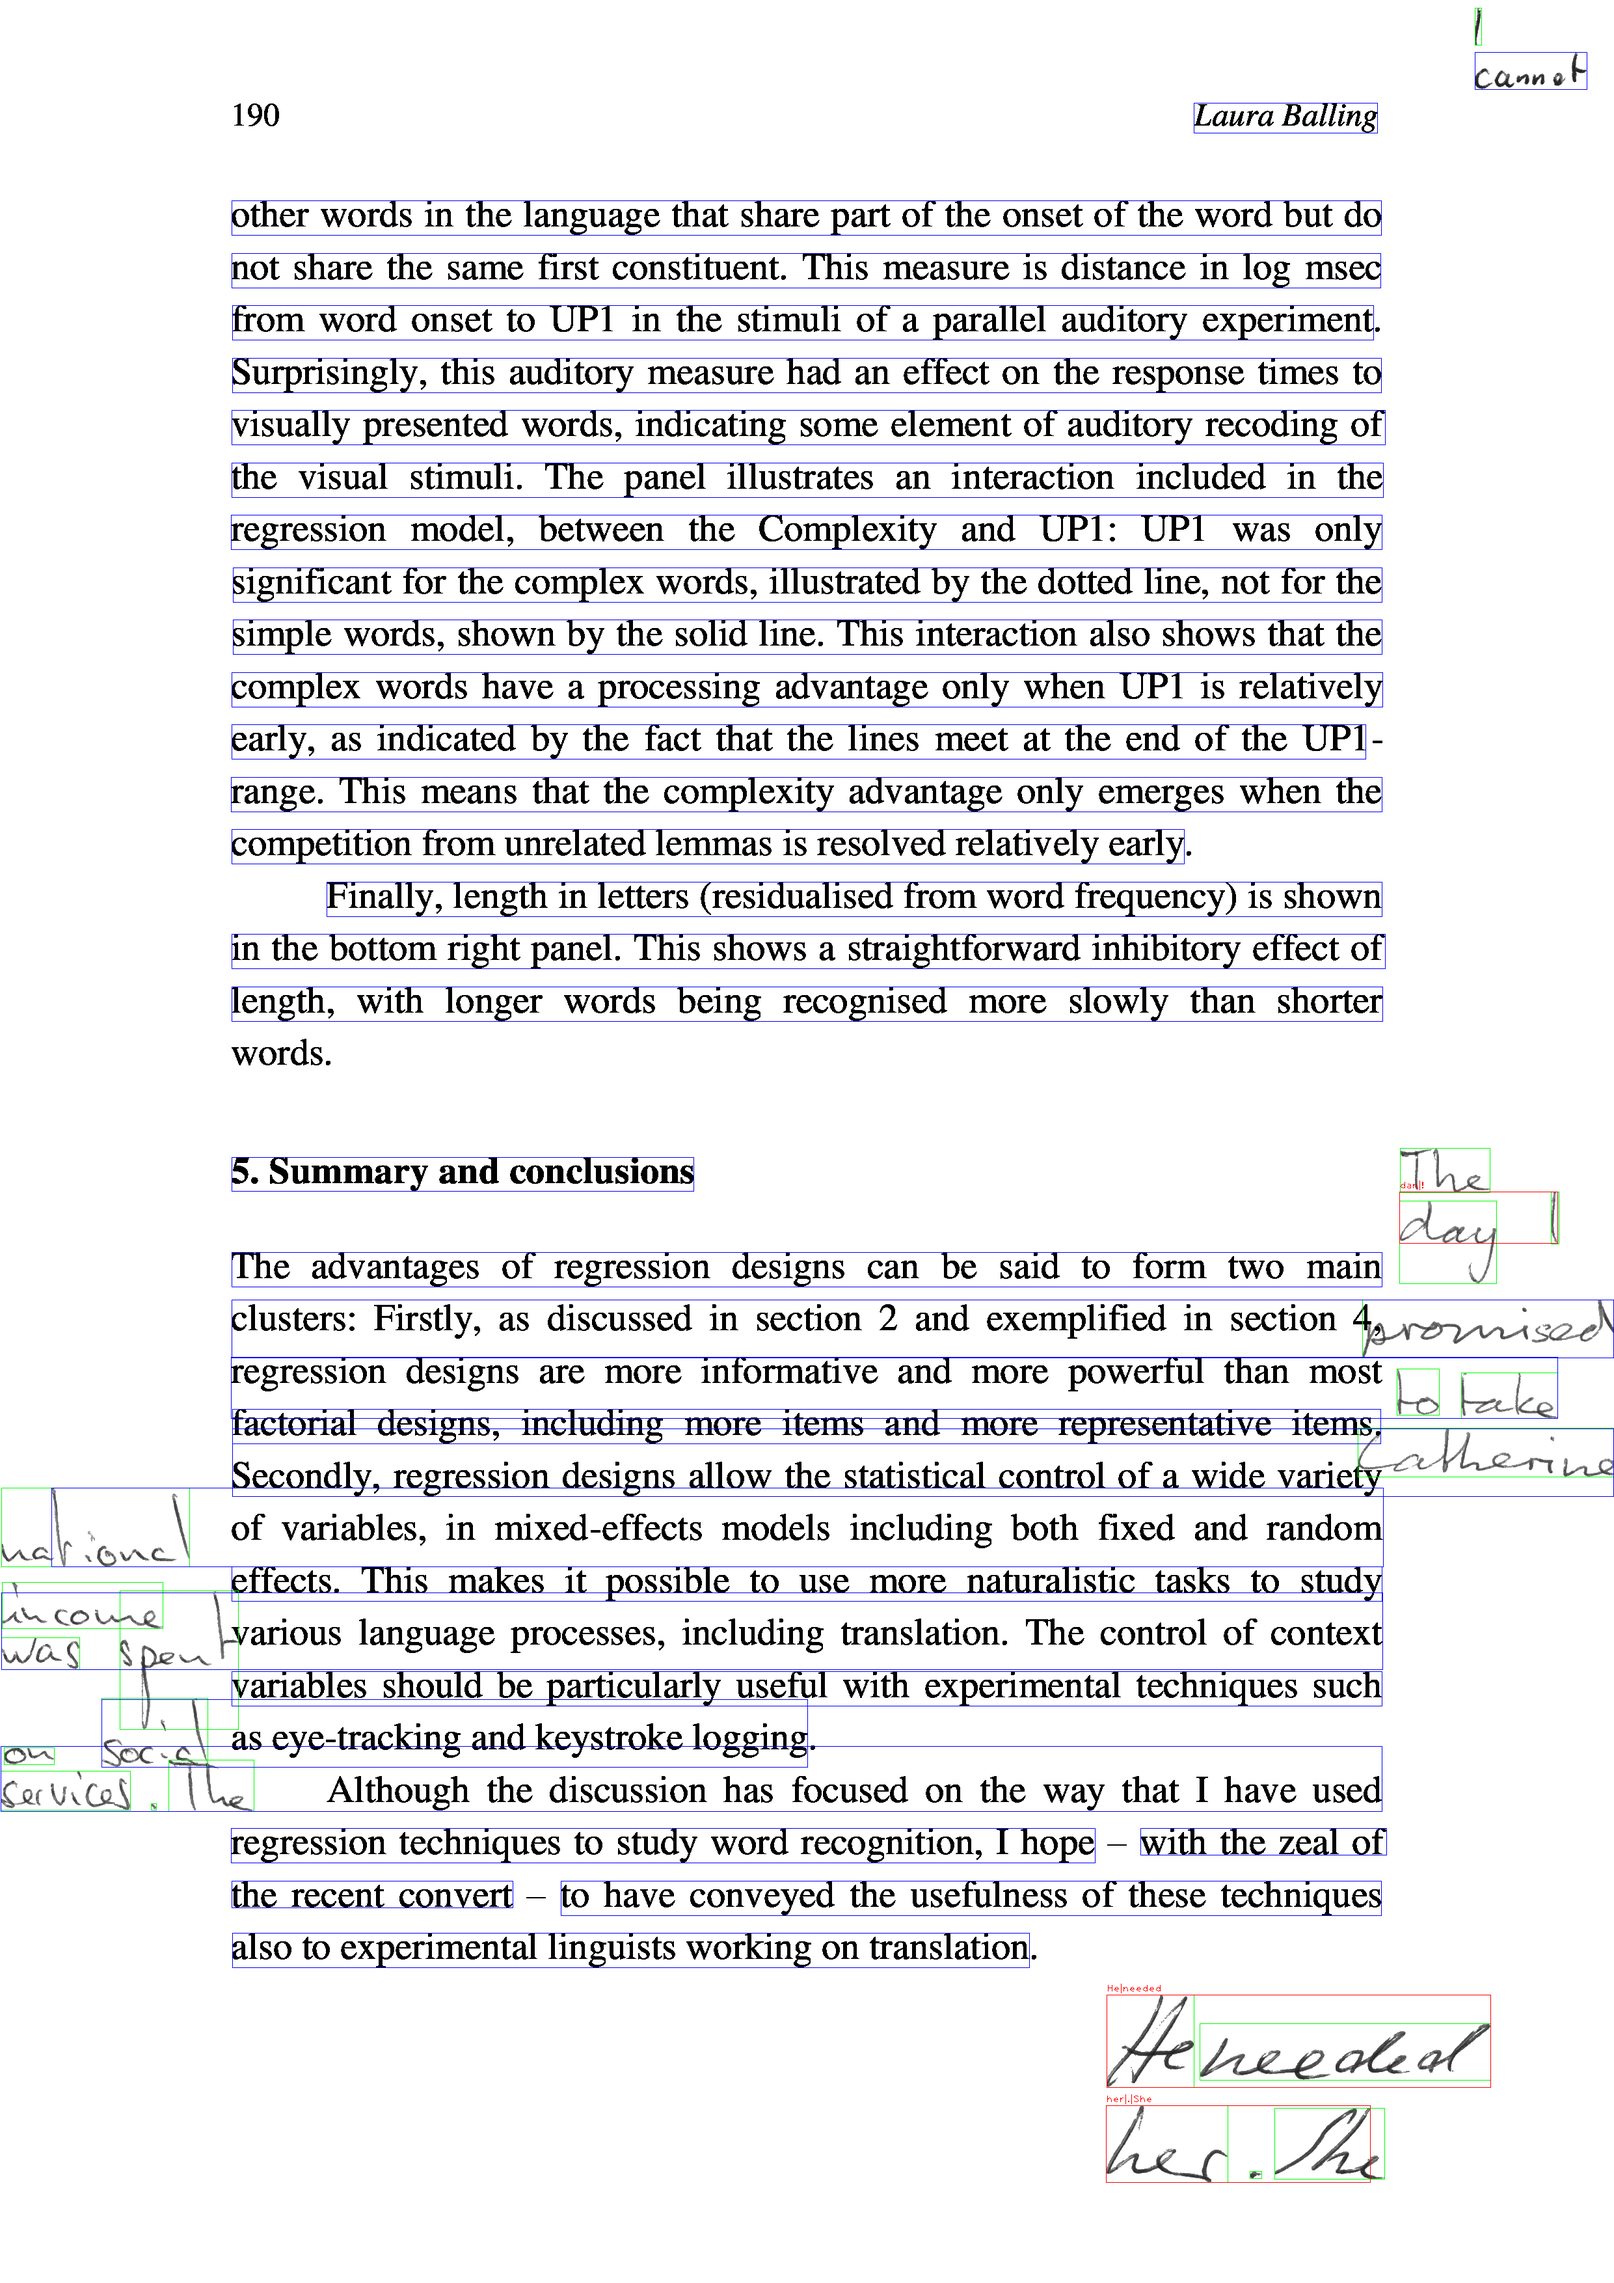
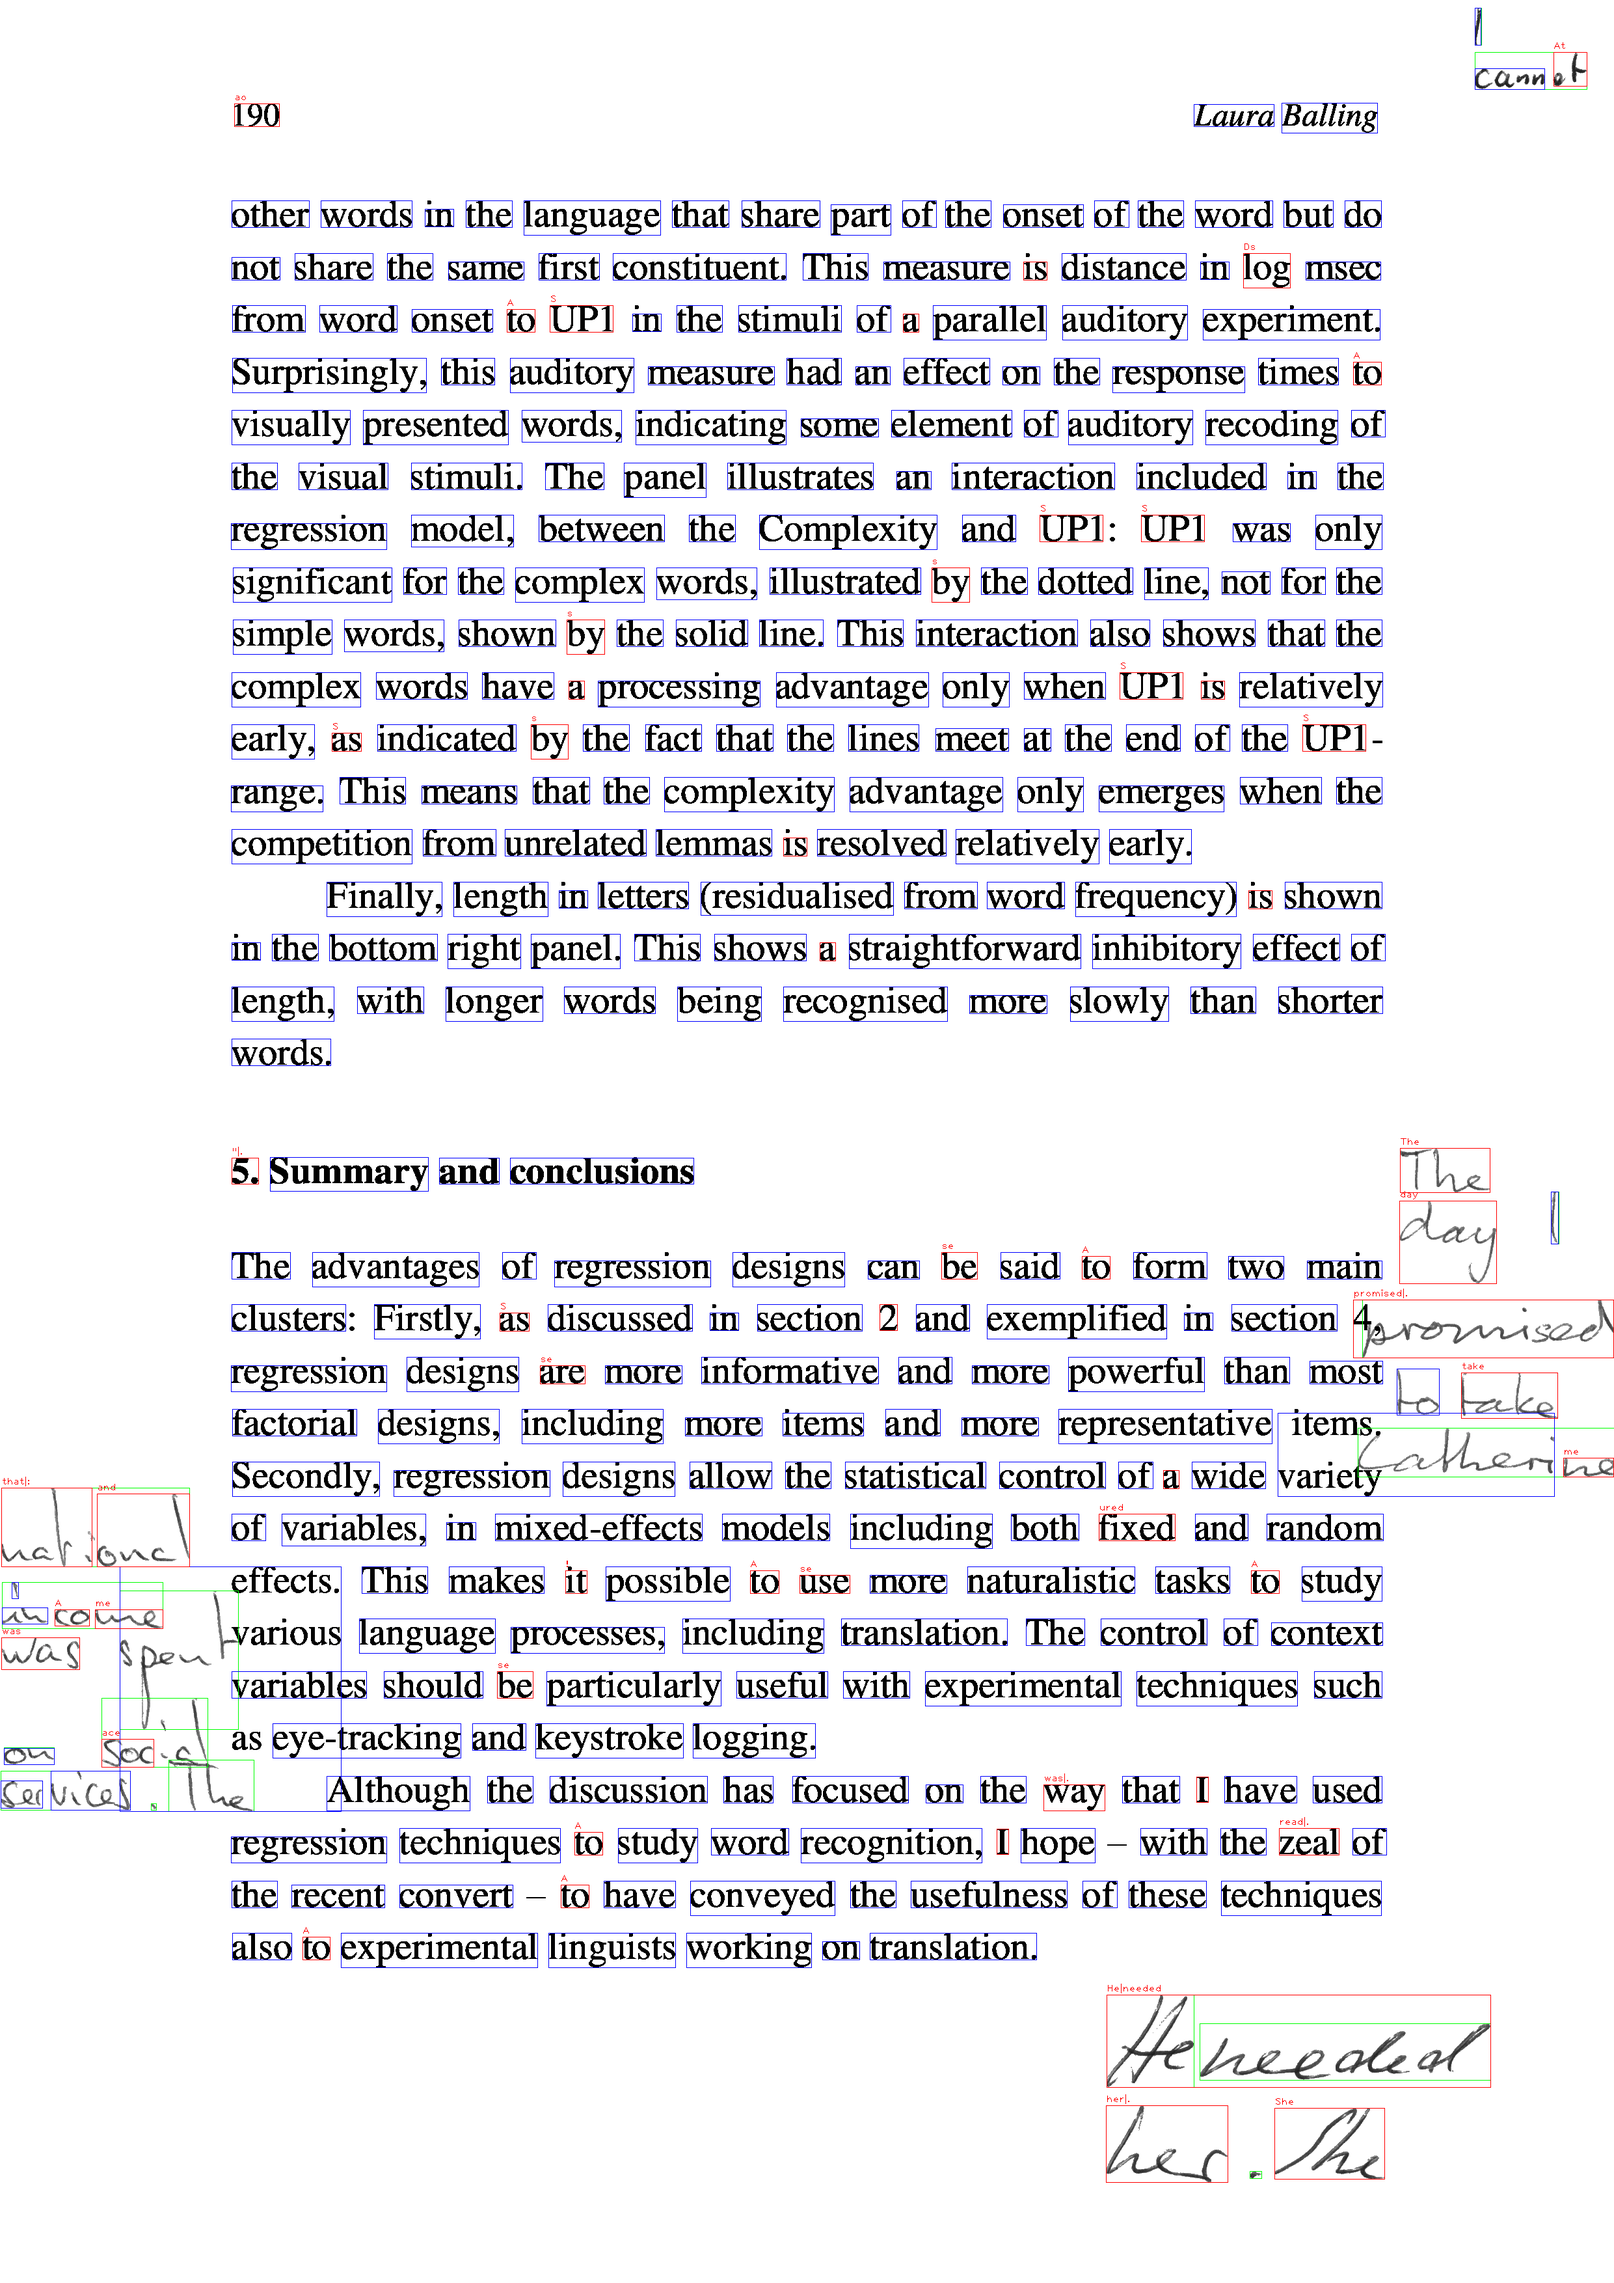
word extractor

diff --git a/segmentation/WordRegionExtractor.py b/segmentation/WordRegionExtractor.py
@@ -1,0 +1,154 @@
+import cv2
+import numpy as np
+from sklearn.cluster import DBSCAN
+from .metrics import x_by_height, y_by_height
+
+ORIENTATION_LANDSCAPE = 0
+ORIENTATION_PORTRAIT = 1
+
+##################
+# REGION DETECTION ALGORITHM
+#   1. Thresholding
+#
+
+
+class Region(object):
+    def __init__(self, pos, size, img):
+        self.img = img
+        self.pos = pos
+        self.size = size
+
+
+class RegionExtractor(object):
+
+    def __init__(self, img):
+        self.original = img
+        self._mser_max_area = int(img.shape[0]*img.shape[1]/2)
+        self._mser_min_area = 0
+        self._threshold_kernel = 51
+        self._cluster_y_eps = 0.1
+        self._cluster_x_eps = 0.3
+        self._min_region_area = img.shape[0]*img.shape[1]/(200*200)
+        self._min_wh_ratio = 0.0
+
+        if np.max(self.original.shape[:2]) < 800 or np.max(self.original.shape[0:2]) < 533:
+            print("Please provide the image in a higher resolution")
+            exit()
+
+    def _threshold(self, img):
+        mean = np.mean(img, axis=(0, 1))
+        return cv2.adaptiveThreshold(img, 255, cv2.ADAPTIVE_THRESH_GAUSSIAN_C,
+                                     cv2.THRESH_BINARY_INV, self._threshold_kernel, mean/4)
+
+    def _mser(self, img, max_area=14400, min_area=0):
+        mser = cv2.MSER_create(_max_area=self._mser_max_area,
+                               _min_area=self._mser_min_area)
+        regions, _ = mser.detectRegions(img)
+        hulls = [cv2.convexHull(p.reshape(-1, 1, 2)) for p in regions]
+        return hulls
+
+    def _duplicate(self, rects):
+        res = []
+        for rect in rects:
+            res.extend([rect]*2)
+        return res
+
+    def _hull2rect(self, hull):
+        return cv2.boundingRect(hull)
+
+    def _cluster(self, rects, eps, metric):
+        db = DBSCAN(eps=eps, min_samples=1,
+                    metric=metric).fit(rects)
+        labels = db.labels_
+        cluster = []
+        cluster_dict = {}
+        for idx, rect in enumerate(rects):
+            if labels[idx] > -1:
+                if labels[idx] not in cluster_dict:
+                    cluster_dict[labels[idx]] = []
+                cluster_dict[labels[idx]].append(rect)
+            else:
+                cluster.append([rect])
+        cluster.extend(cluster_dict.values())
+        return cluster
+
+    def _extract_region(self, region):
+        x1, y1, x2, y2 = region
+        return Region(
+            (x1, y1), (x2-x1, y2-y1), self.original[y1:y2, x1:x2])
+
+    def _combined_metric(self, rectA, rectB):
+        if y_by_height(rectA, rectB) < self._cluster_y_eps and x_by_height(rectA, rectB) < self._cluster_x_eps:
+            return 0
+        return 1
+
+    def extract(self):
+        #########################
+        #   1. THRESHOLDING
+        ########################
+        img = cv2.cvtColor(self.original, cv2.COLOR_BGR2GRAY)
+        img = self._threshold(img)
+
+        #########################
+        #   2. MSER
+        ########################
+        hulls = self._mser(img)
+        rects = list([self._hull2rect(hull) for hull in hulls])
+
+        #########################
+        #   3. Rectangle Grouping
+        ########################
+
+        rects = self._duplicate(rects)
+        rects = cv2.groupRectangles(rects, 1, 0)
+        rects = [[x, y, x+w, y+h] for x, y, w, h in rects[0]]
+        #########################
+        #   4. Y-AXIS Clustering
+        ########################
+        # rect_groups = self._cluster(
+        #     rects, self._cluster_x_eps, x_by_height)
+        rect_groups = self._cluster(
+            rects, 0.5, self._combined_metric)
+        #########################
+        #   5. X-AXIS Clustering
+        ########################
+        # rect_super_groups = [self._cluster(
+        #     rect_group, self._cluster_y_eps, y_by_height) for rect_group in rect_groups]
+        rect_super_groups = [rect_groups]
+
+        #########################
+        #   6. Grouping clusters
+        ########################
+        regions = []
+        for groups in rect_super_groups:
+            for subgroup in groups:
+                subgroup = np.array(subgroup)
+                v = [0, 0, 0, 0]
+                v[0] = int(np.min(subgroup[:, 0]))
+                v[2] = int(np.max(subgroup[:, 2]))
+                v[1] = int(np.min(subgroup[:, 1]))
+                v[3] = int(np.max(subgroup[:, 3]))
+                if (v[2]-v[0])*(v[3]-v[1]) > self._min_region_area and (v[2]-v[0])/(v[3]-v[1]) > self._min_wh_ratio:
+                    regions.append(v)
+
+        #########################
+        #   7. Get Region Image
+        ########################
+        return [self._extract_region(region) for region in regions]
+
+
+if __name__ == "__main__":
+    IMAGE = "./segmentation/images/00007-paper.png"
+    # IMAGE = "./segmentation/images/00001-paper.png"
+    img = cv2.imread(IMAGE)
+    re = RegionExtractor(img)
+    regions = re.extract()
+    for region in regions:
+        # cv2.imshow('final_region', region.img)
+        # cv2.waitKey(0)
+        x, y = region.pos
+        w, h = region.size
+        cv2.rectangle(img, (x, y), (x + w, y + h), (0, 0, 255), 1)
+    cv2.imwrite('./segmentation/output.png', img)
+    # cv2.imshow('All', img)
+    # cv2.waitKey(5000)

diff --git a/eval/evaluate.py b/eval/evaluate.py
@@ -1,8 +1,17 @@
 from .iou import fullpageiou
 import pylev
+import re
 
 IOU_THRESHOLD: float = 0.5
 LEVENSHTEIN_THRESHOLD: float = 0.25
+PUNCTUATION_REGEX = re.compile(r"([|])(?=[,.;:!?])")
+REGULAR_REGEX = re.compile(r"[|]")
+
+
+def clean_text(text):
+    text = PUNCTUATION_REGEX.sub('', text)
+    text = REGULAR_REGEX.sub(' ', text)
+    return text
 
 
 def levenshtein(gt, pred):
@@ -10,16 +19,25 @@ def levenshtein(gt, pred):
     return pylev.levenshtein(gt, pred)/ln
 
 
-def evaluate(groundtruth, predictions, iou_threshold=IOU_THRESHOLD, levenshtein_threshold=LEVENSHTEIN_THRESHOLD):
+def score_threshed(dist, threshold):
+    return 0 if dist > threshold else 1.0 * (1-(dist*2))
+
+
+def score_squared_error(dist, threshold):
+    return 1.0 - (dist if dist < 1.0 else 1.0)
+
+
+def evaluate(groundtruth, predictions, iou_threshold=IOU_THRESHOLD, levenshtein_threshold=LEVENSHTEIN_THRESHOLD, score_fn=score_squared_error):
     pairs, misfire = fullpageiou(groundtruth, predictions, iou_threshold)
-    total_pairs = len(pairs) + misfire
+    total_pairs = len(list(filter(lambda x: x["pred"] is not None or len(
+        x["gt"]["text"]) > 1, pairs))) + misfire
     correct_pairs = 0.0
     for pair in pairs:
         if pair["pred"] is not None:
-            dist = levenshtein(pair["gt"]["text"], pair["pred"]["text"])
+            dist = levenshtein(clean_text(pair["gt"]["text"]).lower(),
+                               clean_text(pair["pred"]["text"]).lower())
             pair["dist"] = dist
-            if dist < levenshtein_threshold:
-                correct_pairs += 1.0 * (1-(dist*2))
+            correct_pairs += score_fn(dist, levenshtein_threshold)
     return pairs, correct_pairs/total_pairs
 
 

diff --git a/data/RegionDataset.py b/data/RegionDataset.py
@@ -39,17 +39,19 @@ class RegionDataset(Dataset):
         self.vocab_length = len(self.vocab[0])
 
     def _load_sets(self):
-        self.data = [self._preprocess(region) for region in self.regions]
+        self.data = list(filter(lambda x: x is not None, [
+                         self._preprocess(region) for region in self.regions]))
 
     def _scale(self, img, factor):
         height = int(img.shape[0] / factor)
         width = int(img.shape[1] / factor)
+        if width <= 0 or height <= 0:
+            return np.zeros((self._max_height, self._max_width))
         return cv2.resize(img, (width, height))
 
     def _scale_img(self, img):
         if img.shape[0] == 0 or img.shape[1] == 0:
-            print(im.shape)
-            return img
+            return np.zeros((self._max_height, self._max_width))
         factor = max(img.shape[0] / self._max_height,
                      img.shape[1] / self._max_width,
                      self._scaling)
@@ -62,6 +64,8 @@ class RegionDataset(Dataset):
         img = threshold._threshold(img, True)
         img = crop._crop(img)
         img = self._scale_img(img)
+        if img is None:
+            return None
         img = padding._pad_cv2(img, 5, 0)
 
         img = pad(img, (self.meta["height"], self.meta["width"]))

diff --git a/segmentation/metrics.py b/segmentation/metrics.py
@@ -1,0 +1,30 @@
+def trunc(a, threshold=0):
+    return threshold if a < threshold else a
+
+
+def distance(rectA, rectB, p1, p2):
+    a1 = rectA[p1]
+    a2 = rectA[p2]
+    b1 = rectB[p1]
+    b2 = rectB[p2]
+    scale_a = a2 - a1
+    scale_b = b2 - b1
+    combined = max(a2, b2) - min(a1, b1)
+    return trunc(combined-scale_a-scale_b)
+
+
+def divide_by_height(dist, rectA, rectB):
+    _, ay1, _, ay2 = rectA
+    _, by1, _, by2 = rectB
+    avg_height = ((ay2 - ay1) + (by2 - by1)) / 2.0
+    return dist / avg_height
+
+
+def x_by_height(rectA, rectB):
+    dist = distance(rectA, rectB, 0, 2)
+    return divide_by_height(dist, rectA, rectB)
+
+
+def y_by_height(rectA, rectB):
+    dist = distance(rectA, rectB, 1, 3)
+    return divide_by_height(dist, rectA, rectB)

diff --git a/e2e_eval.py b/e2e_eval.py
@@ -1,6 +1,7 @@
 import argparse
 import cv2
-from segmentation.MSERRegionExtractor import RegionExtractor
+# from segmentation.MSERRegionExtractor import RegionExtractor
+from segmentation.WordRegionExtractor import RegionExtractor
 from data.RegionDataset import RegionDataset
 from data.util import loadJson, rmkdir
 from eval.evaluate import evaluate
@@ -22,7 +23,7 @@ SUBSET = "dev"
 PUNCTUATION_REGEX = re.compile(r"([|])(?=[,.;:!?])")
 REGULAR_REGEX = re.compile(r"[|]")
 
-HTR_THRESHOLD = 0.25
+HTR_THRESHOLD = 0.1
 
 
 class End2End(object):
